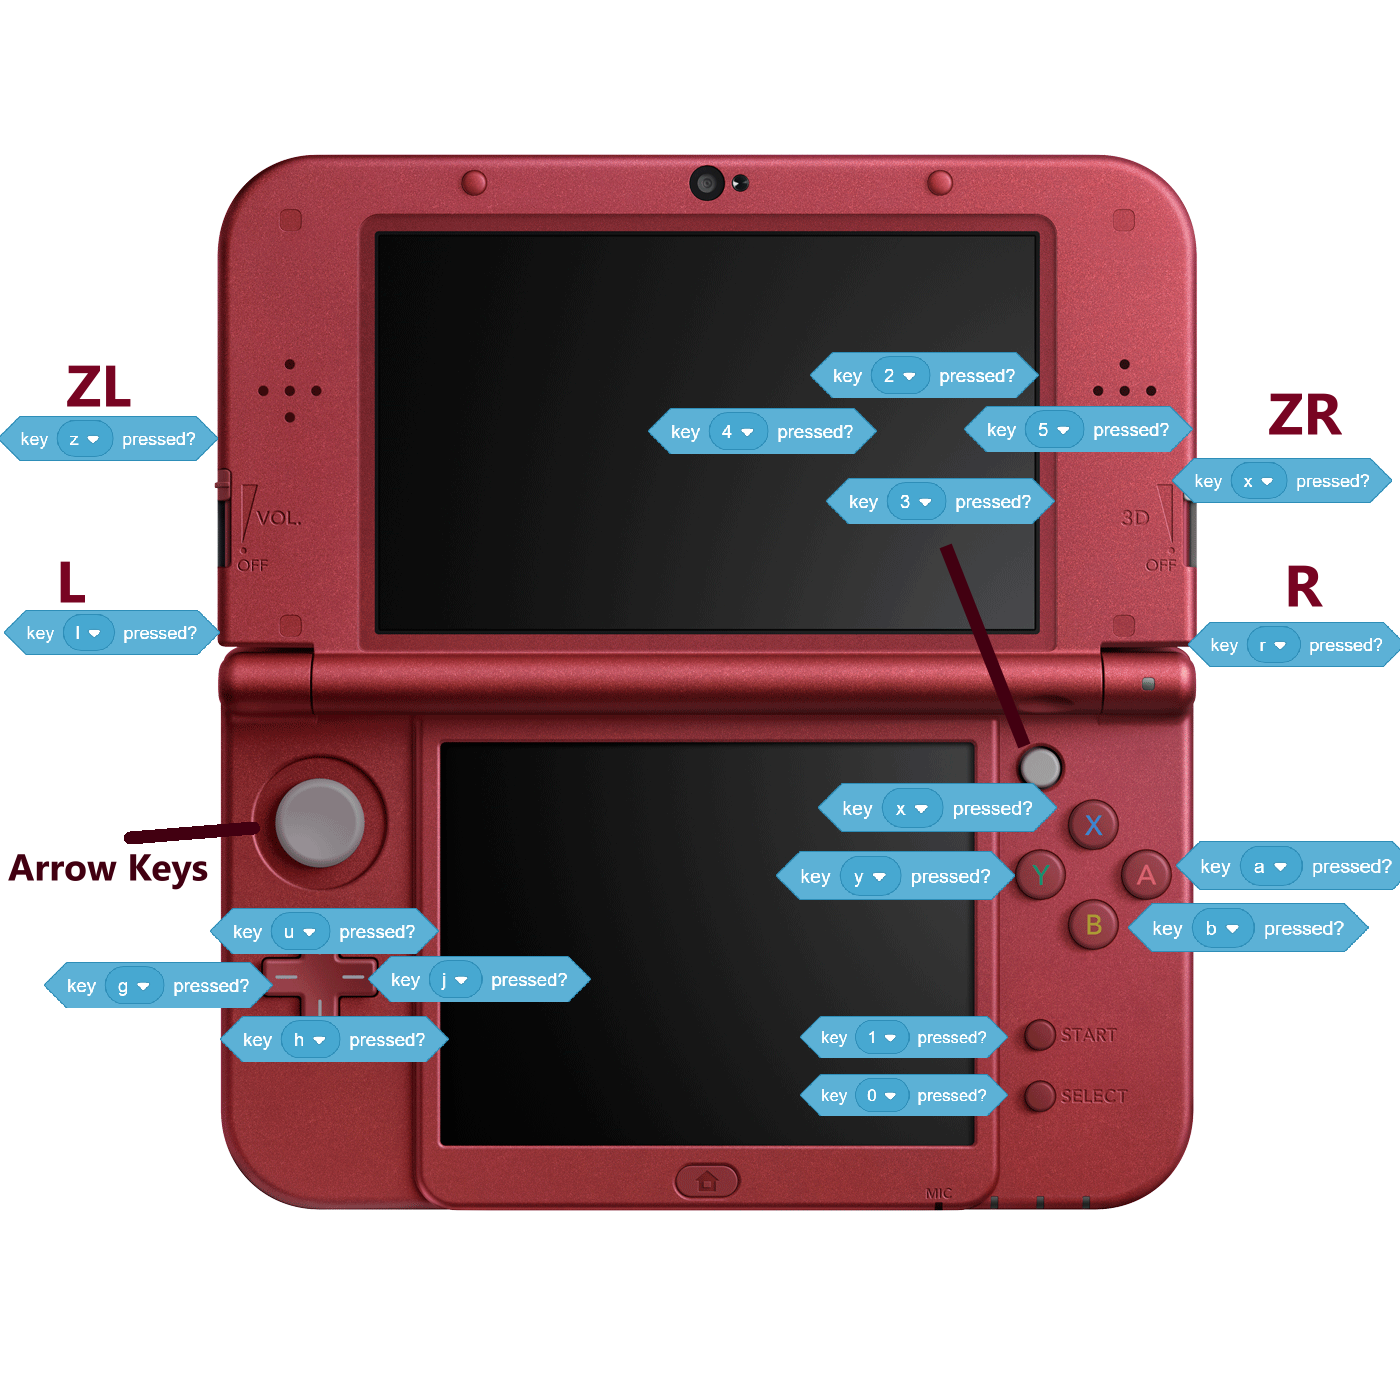
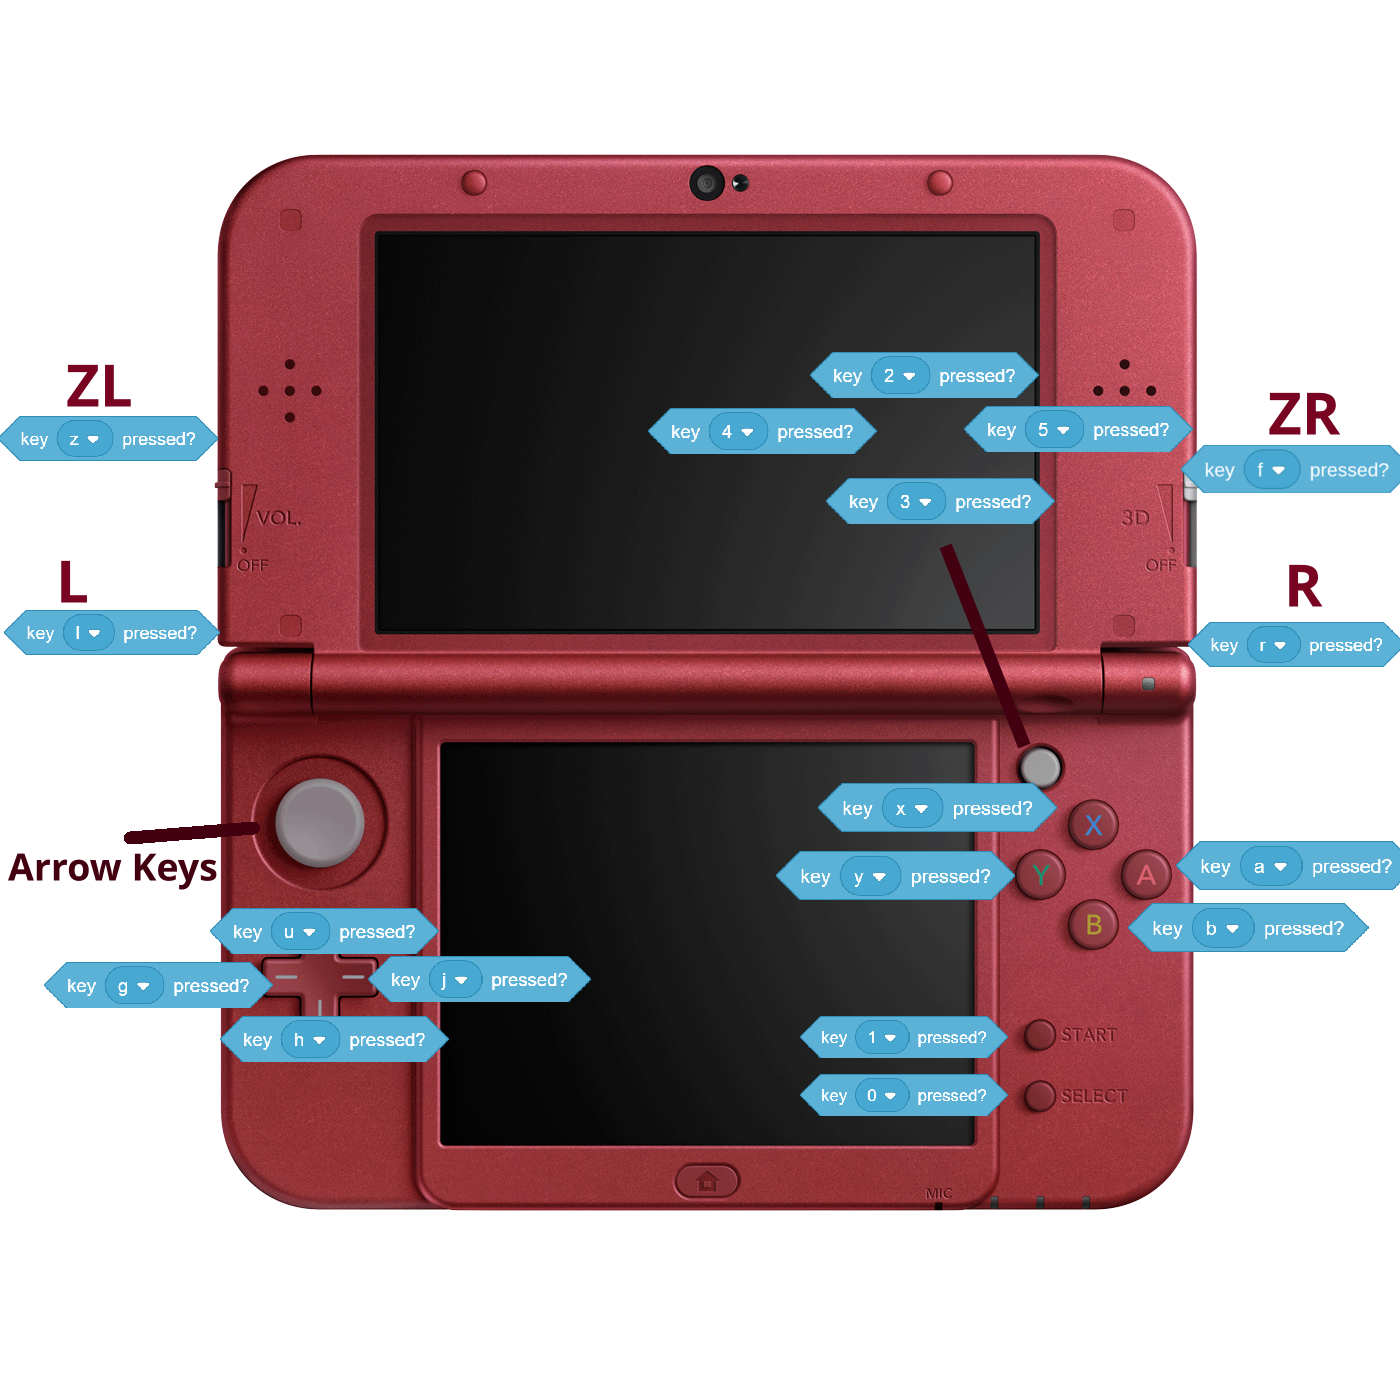
fixed ZR and X being mapped to the same keyboard key
ZR is now mapped to "f"

Changed region(s): [[0.8293, 0.2764, 1.0, 0.3686], [0.0307, 0.6143, 0.1536, 0.645], [0.0614, 0.2457, 0.0921, 0.2764]]

diff --git a/source/3ds/input.cpp b/source/3ds/input.cpp
@@ -80,7 +80,7 @@ void Input::getInput(){
             inputButtons.push_back("z");
         }
         if(kDown & KEY_ZR){
-            inputButtons.push_back("x");
+            inputButtons.push_back("f");
         }
         if(kDown & KEY_CPAD_UP){
             inputButtons.push_back("up arrow");
